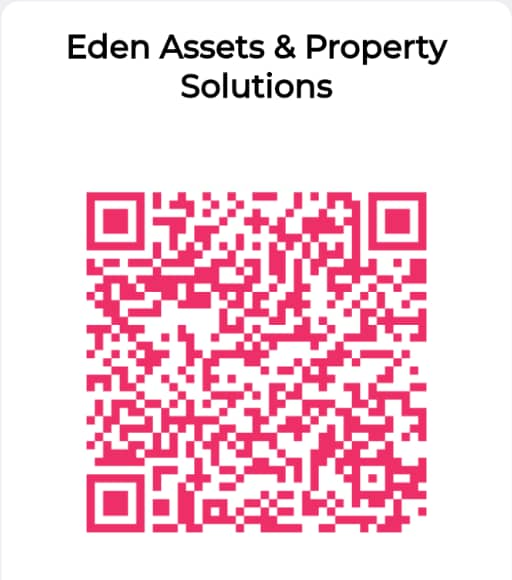
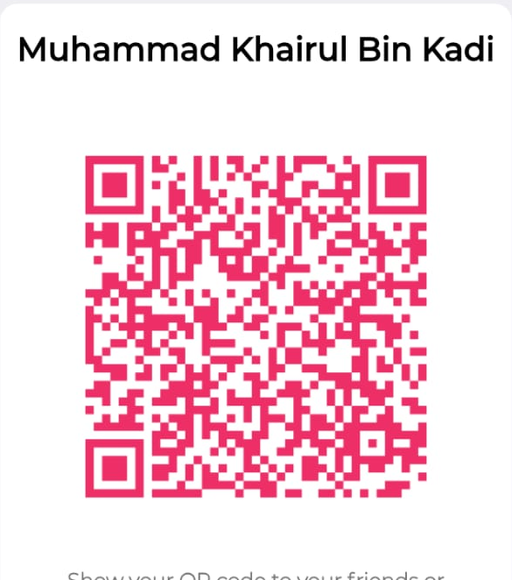
Landing page: Khairul's own Maybank QR

diff --git a/premium/index.html b/premium/index.html
@@ -132,7 +132,7 @@ footer{margin-top:22px;padding-top:14px;border-top:1px solid var(--line);color:v
 <li><div><b data-i18n="s2">Send the receipt on WhatsApp</b><p data-i18n="s2p">Tap the green button below. The message is ready, just attach your receipt screenshot.</p></div></li>
 <li><div><b data-i18n="s3">Receive your access code</b><p data-i18n="s3p">You get a personal code and the link. The code works for 30 days. Renew only if you want to.</p></div></li>
 </ol>
-<div class="qr"><div class="amount" id="amount">RM50</div><img src="../img/qr-maybank.png" width="512" height="580" alt="DuitNow QR code for payment to Eden Assets & Property Solutions" data-alt-ms="Kod QR DuitNow untuk bayaran kepada Eden Assets & Property Solutions" data-alt-en="DuitNow QR code for payment to Eden Assets & Property Solutions"><small data-i18n="qr_c">Scan with any Malaysian banking app · Eden Assets & Property Solutions</small></div>
+<div class="qr"><div class="amount" id="amount">RM50</div><img src="../img/qr-maybank.png" width="512" height="580" alt="DuitNow QR code for payment to Muhammad Khairul Bin Kadi" data-alt-ms="Kod QR DuitNow untuk bayaran kepada Muhammad Khairul Bin Kadi" data-alt-en="DuitNow QR code for payment to Muhammad Khairul Bin Kadi"><small data-i18n="qr_c">Scan with any Malaysian banking app · Muhammad Khairul Bin Kadi</small></div>
 <div class="cta" style="margin-top:14px"><a class="btn wa" id="waBtn" href="https://wa.me/60102449587?text=Hi%20Khairul%20Kar%2C%20I%20have%20paid%20RM50%20for%20the%2030-day%20premium%20auction%20list.%20Here%20is%20my%20receipt." target="_blank" rel="noopener" data-i18n="wa">💬 Send receipt on WhatsApp</a></div>
 </section>
 
@@ -178,7 +178,7 @@ pay_h:'Cara melanggan',pay_lead:'Tiga langkah. Kod dihantar selepas bayaran disa
 s1:'Bayar harga pelan dengan mengimbas kod QR',s1p:'Buka aplikasi bank anda, imbas, dan bayar RM50 (Premium) atau RM99 (VIP Investor Plan). QR DuitNow boleh digunakan dengan mana-mana aplikasi bank Malaysia.',
 s2:'Hantar resit di WhatsApp',s2p:'Tekan butang hijau di bawah. Mesej sudah sedia, hanya lampirkan tangkapan skrin resit.',
 s3:'Terima kod akses anda',s3p:'Anda dapat kod peribadi dan pautan. Kod sah untuk 30 hari. Sambung hanya jika mahu.',
-qr_c:'Imbas dengan mana-mana aplikasi bank Malaysia · Eden Assets & Property Solutions',
+qr_c:'Imbas dengan mana-mana aplikasi bank Malaysia · Muhammad Khairul Bin Kadi',
 wa:'💬 Hantar resit di WhatsApp',
 faq_h:'Soalan lazim',
 q1:'Adakah RM50 bayaran sekali sahaja?',a1:'RM50 memberi anda akses 30 hari. Tiada yang diperbaharui secara automatik. Jika mahu teruskan, anda bayar lagi untuk 30 hari seterusnya dan kod yang sama disambung. Anda juga boleh bayar 2 hingga 12 bulan sekali gus pada kadar sama, contohnya 3 bulan RM150 atau 12 bulan RM600.',
